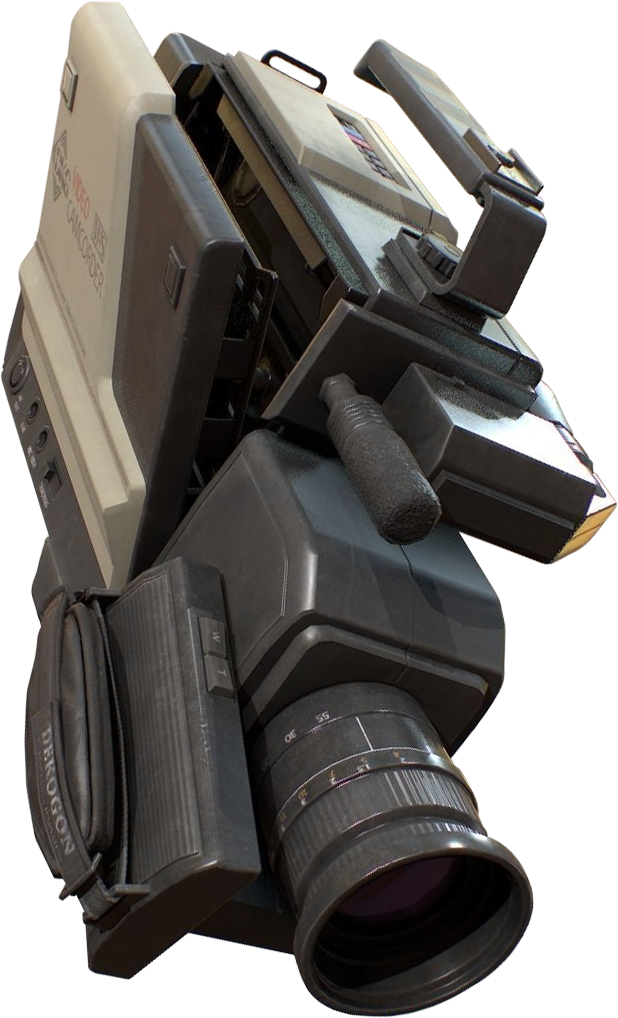
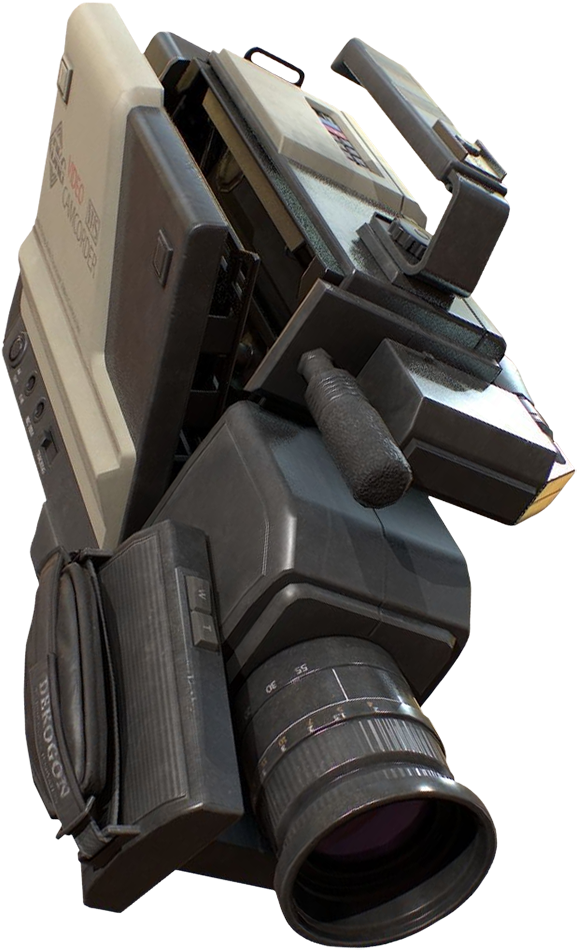
Fixes a las imágenes

diff --git a/index.html b/index.html
@@ -9,8 +9,8 @@
   </head>
   <body>
     <div id="splash">
-      <div id="wall" depth="15"></div>
-      <div class="scene-element" id="camera" depth="10" rotation="-20">
+      <div id="wall" depth="17"></div>
+      <div class="scene-element" id="camera" depth="12" rotation="-20">
         <img src="src/camera.png">
       </div>
       <div class="scene-element" id="vhs" depth="5" rotation="-25">
@@ -80,7 +80,7 @@
       };
       const changeSceneAngle = () => {
         let x = (window.innerWidth / 2) - xMousePos;
-        let y = (window.innerHeight / 2) - yMousePos + (window.scrollY * 2);
+        let y = (window.innerHeight / 2) - yMousePos - (window.scrollY * 4);
 
         for(let obj of objArray){
           obj.setTransform(x, y);
